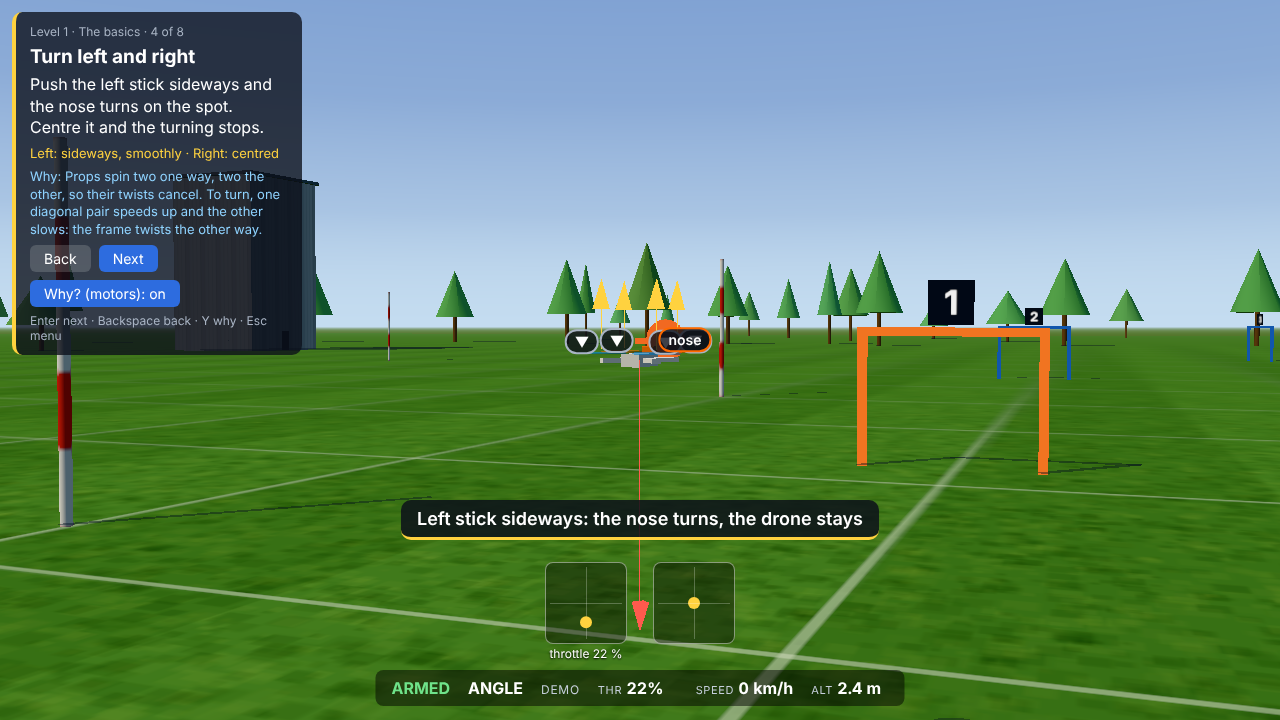
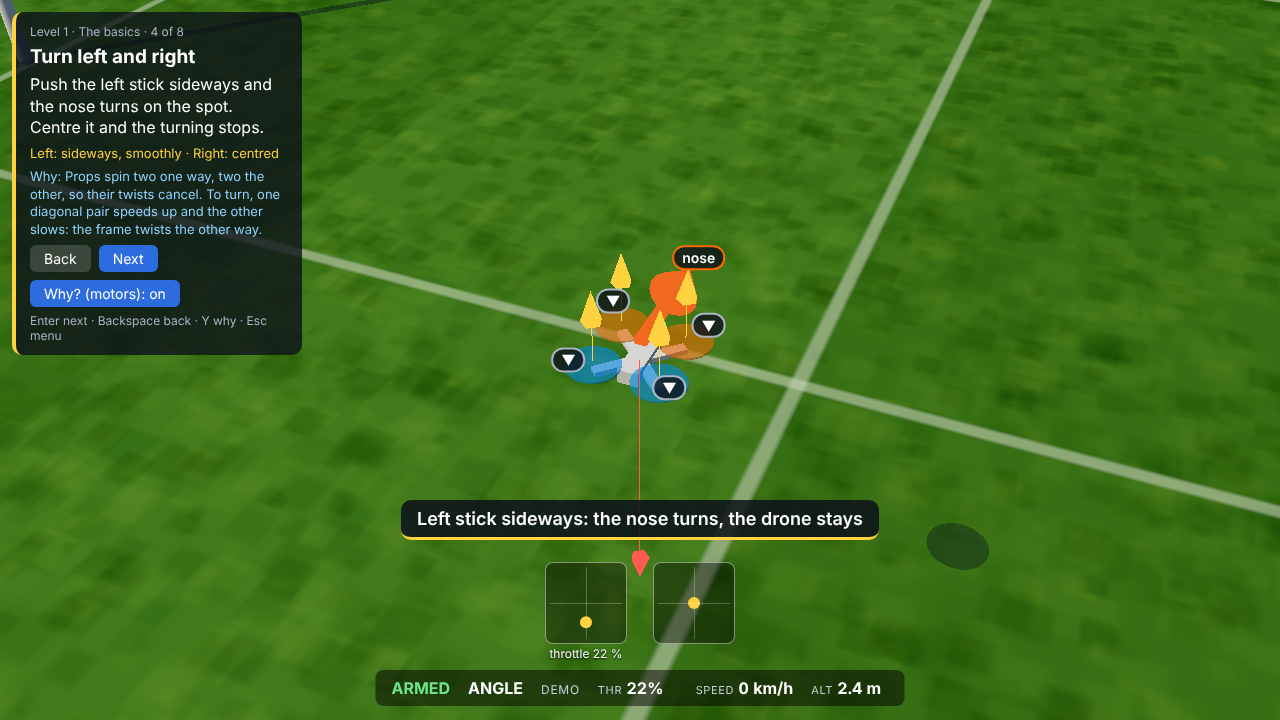
M10e: unit tests, old checks updated for the level decks, README and docs

diff --git a/src/demos.js b/src/demos.js
@@ -131,7 +131,7 @@ export const DEMOS = {
     fly: (t, s, h) => ({ ...h.hold(s, 0, s.pos[1], -7), throttle: between(t, 1, 2.5) ? h.hover + 0.1 : t < 1 ? h.alt(s, 1.5) : h.alt(s, s.pos[1]) }) },
   'basic-down': { start: [0, 4.5, -7], cam: [2.6, 2.6, -1.5], loop: 7, captions: ['Just under hover: it sinks gently'],
     fly: (t, s, h) => ({ ...h.hold(s, 0, s.pos[1], -7), throttle: between(t, 1, 4.5) && s.pos[1] > 1.2 ? h.hover - 0.04 : t < 1 ? h.alt(s, 4.5) : h.alt(s, Math.max(1.2, s.pos[1])) }) },
-  'basic-yaw': { start: SPOT, cam: [2.2, 2.6, -1.5], loop: 7.5, nose: true, scale: 2, captions: ['Left stick sideways: the nose turns, the drone stays'],
+  'basic-yaw': { start: SPOT, cam: [1.5, 5.5, -3.5], loop: 7.5, nose: true, scale: 2, captions: ['Left stick sideways: the nose turns, the drone stays'],
     fly: (t, s, h) => ({ ...h.hold(s, ...SPOT), yaw: between(t, 1, 3) ? -0.45 * Math.min(1, (t - 1) / 0.6, (3 - t) / 0.6) : between(t, 4, 6) ? 0.45 * Math.min(1, (t - 4) / 0.6, (6 - t) / 0.6) : 0 }) },
   'basic-back': { start: [12, 2.5, -9, 90], cam: PILOT, loop: 6, captions: ['Stick back: it tilts back and moves backward'],
     fly: (t, s, h) => level(s, h, 2.5, { pitch: between(t, 1, 3) ? -0.35 : t >= 3 && s.vel[0] < -0.4 ? 0.4 : 0 }) },
@@ -139,11 +139,11 @@ export const DEMOS = {
     fly: (t, s, h) => level(s, h, 2.5, { roll: between(t, 1, 3) ? 0.35 : t >= 3 && s.vel[0] > 0.4 ? -0.4 : 0 }) },
   'thrust-ramp': { start: [0, 1.2, -7], cam: [2.6, 2.6, -1.5], loop: 6, arrows: true, captions: ['Throttle up slowly: the push grows faster than the stick'],
     fly: (t, s, h) => ({ ...h.hold(s, 0, s.pos[1], -7), throttle: t < 1 ? h.alt(s, 1.2) : between(t, 1, 3) ? h.hover + 0.06 * (t - 1) : h.alt(s, s.pos[1]) }) },
-  'descent': { runs: 2, start: (run) => (run ? [-10, 7, -8, 90] : [0, 7, -8]), cam: PILOT, loop: 6, arrows: true,
+  'descent': { runs: 2, start: (run) => (run ? [-12, 7, -8, 90] : [0, 7, -8]), cam: PILOT, loop: 7.5, arrows: true,
     captions: ['Straight down, gently: just under hover', 'Coming down while moving forward: the drone leaves its own air behind'],
     fly: (t, s, h) => {
       const sink = s.pos[1] > 1.5 && t > 1 ? h.hover - 0.03 : h.alt(s, Math.max(1.5, s.pos[1]));
-      return h.run ? { ...level(s, h, 0, { pitch: t > 1 && s.pos[1] > 1.5 ? 0.25 : s.vel[0] > 0.4 ? -0.4 : 0 }), throttle: sink + (t > 1 && s.pos[1] > 1.5 ? 0.02 : 0) } : { ...h.hold(s, 0, s.pos[1], -8), throttle: sink };
+      return h.run ? { ...level(s, h, 0, { pitch: t > 1 && s.pos[1] > 1.5 ? 0.2 : s.vel[0] > 0.4 ? -0.4 : 0 }), throttle: sink } : { ...h.hold(s, 0, s.pos[1], -8), throttle: sink };
     } },
   // Stick patterns (src/patterns.js, M10d): run 0 does the whole pattern, run 1 forgets one part. captions[run] says which.
   'pat-hover': { runs: 2, start: SPOT, cam: [2.2, 2.6, -1.5], loop: 6, captions: ['Throttle at hover: it stays', 'Forgot: throttle a little low, so it sinks'],

diff --git a/index.html b/index.html
@@ -47,7 +47,7 @@
   <div class="menu-card">
     <h1 class="menu-title"></h1>
     <section data-screen="main" data-title="FPV sim">
-      <button type="button" class="big" data-go="learn" data-first><b>Learn</b><small id="main-learn">Eight lessons, from first take-off to real-drone ready</small></button>
+      <button type="button" class="big" data-go="learn" data-first><b>Learn</b><small id="main-learn">Four levels and eight lessons, from first take-off to motor thrust</small></button>
       <button type="button" class="big" data-act="gates"><b>Gates</b><small id="main-gates">Seven gates against the clock</small></button>
       <button type="button" class="big" data-act="free"><b>Free fly</b><small>The open field, nothing on screen you did not ask for</small></button>
       <button type="button" class="big" data-go="theory"><b>Theory</b><small>Every card, to revise any time</small></button>

diff --git a/src/style.css b/src/style.css
@@ -71,6 +71,9 @@ button.lesson.on { background: #2d6cdf; }
 button.lesson:disabled { opacity: .45; cursor: default; background: rgba(255,255,255,.08); }
 button.lesson small { font-size: 12px; color: #dfe5ee; letter-spacing: .03em; }
 button.lesson.done b::after { content: ' ✓'; color: #6fe38a; }
+button.deck { display: grid; gap: 1px; text-align: left; background: rgba(80,160,255,.18); padding: 5px 9px; border-left: 3px solid #8fd3ff; }
+button.deck:hover { background: rgba(80,160,255,.3); }
+button.deck small { font-size: 12px; color: #dfe5ee; }
 #badge { margin-top: 8px; padding: 6px 10px; border-radius: 6px; background: #1f7a3a; font-weight: 700; text-align: center; }
 #btn-forget[hidden] { display: none; }
 #menu section > .tune-row { display: flex; gap: 8px; align-items: baseline; margin-top: 10px; }

diff --git a/docs/theory.md b/docs/theory.md
@@ -54,6 +54,22 @@ The rates card also draws the rates curve: rotation speed against stick position
 
 The Banked turn and Orbit demos draw the ground track as dots (green for the whole pattern, orange for the forgotten part) and a white nose line every 0.4 s, so a still picture shows the nose turning while the track runs straight. The stick overlay under the demo shows the demo's real sticks and the throttle value.
 
+## Curriculum (M10e)
+
+Learn is ordered in four levels (`src/curriculum.js`): **1 The basics** (hover, up, down, turn, forward, backward, sideways, stop; lessons 1-2), **2 Combinations** (forward + throttle, banked turn, orbit, nose toward you, wind; lessons 3-6), **3 The physics** (thrust and throttle, tilt, prop torque and the yaw jump, momentum and drag, coming down), **4 Acro** (the four acro cards; lessons 7-8). Each level has a deck of cards; each card has the pattern (sticks) and a **Why? (motors)** line. With Why? on (button, Y, or square on a PlayStation pad) the demo also draws the force arrows and tags the motors that are faster or slower than the average (more than 10 % off) from the sim's own thrusts; because those differences last only about 0.1 s in the physics, the demo runs at a quarter of its speed while they last and the tags stay up 1.2 s.
+
+| Card claim | Source / measured |
+|---|---|
+| Hover takes about a ninth of full push; that sits near 15 % of the stick (21 % on the Trainer) | Thrust-to-weight 9 (docs/physics.md, PLAN range, uncited) and the thrust curve thrust ∝ command^1.35 (docs/feel.md note 2, two 2207 6S bench tables); `hoverStick()` gives 15.0 % (freestyle) and 21.4 % (Trainer) |
+| Tilted 30°, half the push points sideways; upward part = push × cos(tilt) | Geometry: sin 30° = 0.5, cos 30° = 0.87, cos 60° = 0.5 |
+| A prop's twist is its push times about 1.2 cm, against the 11 cm arm | `yawTorquePerThrust` 0.0122 m (derived from [7] in docs/physics.md) and `armLength` 0.11 m (uncited) |
+| Hard yaw makes the drone jump up, on real Betaflight quads too | docs/physics.md "Yaw jump" (Betaflight 4.2 tuning notes) |
+| Drag sets the top speed, about 150 km/h | docs/feel.md: 145 km/h measured in angle mode, 148 km/h level |
+| Coming down: up to 20 % less mean push when sinking into its own wash; the sim does not model it | Veismann et al. 2021, NASA Ames, https://rotorcraft.arc.nasa.gov/Publications/files/77-2021-0193_Veismann.pdf (abstract: "mean thrust losses of up to 20% compared to hover conditions"); a 1.68 kg variable-pitch quad in a vertical wind tunnel, so for a 5-inch it is an indication, not a measurement. Not modelled: see PROGRESS.md "For M10e" for a possible model |
+| Rates 70°/s near centre, 670°/s at full stick | Betaflight defaults (docs/physics.md [1][2]) |
+
+Demos measured (Trainer and 5-inch, `test/unit/demos.test.mjs`): Up climbs more than 2 m and then holds within 0.1 m; Down sinks more than 2 m at under 3 m/s; Turn turns the nose more than 60° while the drone stays within 0.3 m; Backward and Sideways move more than 4 m with the nose unchanged (within 3°); Coming down sinks gently (under 3.5 m/s) straight down, then a second time while moving forward.
+
 ## Helpers (M10)
 
 **Force arrows while flying.** The same arrows as in the demos (`src/arrows.js`, same scales), switched on with F or in Settings, drawn in line-of-sight and chase view. In FPV the camera is on the quad, so they are not drawn. Checked in Chrome: hovering, the four thrusts add up to the weight (6.67 N against 6.67 N).

diff --git a/PROGRESS.md b/PROGRESS.md
@@ -210,3 +210,4 @@ Live link: https://mickethegeek.github.io/fpv-sim/ (not checkable from the cloud
 - 2026-11-17 11:32 Zurich · M10d ticked: yaw jump kept (real, Betaflight yaw pidsum limit added), 8 stick patterns flown whole and with one part forgotten, Stick patterns page, live throttle under the left stick, pattern reminder in Try, ground track + nose bars in the Banked turn and Orbit demos; 79 unit tests; full browser run passes (164 checks, 0 failures); proof/M10d/97 to 102 · next: M10e curriculum
 - 2026-11-17 11:34 Zurich · M10e started: src/curriculum.js (4 levels: basics 8 cards, combinations 5, physics 5 incl. coming down taught honestly as not modelled, acro 4; every card has a pattern and a 'Why? (motors)' line), 7 new demos (up, down, turn, backward, sideways, thrust ramp, descent) flown on both quads; not on the page yet · next: Learn screen by levels, Why? toggle with live motor tags
 - 2026-11-17 11:37 Zurich · M10e: Learn screen in 4 levels (each a deck of cards, then its lessons); Why? (motors) on every card (button, Y, or square): the card's motors line, force arrows, faster / slower tags on the motors (held 1.2 s, demo at quarter speed while the motors differ); level cards also on the Theory page; browser block M10e (8 checks) passes · next: look at screenshots, fix old checks that count Learn buttons, docs, full run
+- 2026-11-17 11:42 Zurich · M10e: unit tests for the curriculum and the new demos (83 pass); old M6 / M8 checks updated for the deck buttons (M8 block passes); README and docs/theory.md 'Curriculum' (every card claim with its source or measurement; coming down marked as not modelled); screenshots 103 to 105 looked at · next: full browser run, tick M10e

diff --git a/README.md b/README.md
@@ -42,6 +42,7 @@ Other gamepads with the standard layout work like the PlayStation one (RB arm, L
 The page opens on a menu: **Learn**, **Gates**, **Free fly**, **Theory**, **Stick patterns**, **Settings**. Nothing is locked: open any chapter, skip any part from the pause menu (Options or Esc), or go straight to the gates.
 
 - **Learn.** Eight chapters. Each has up to four parts, all optional: **Learn** (short cards, each shown live in the sim with the real forces drawn as arrows), **Watch** (a test pilot flies the lesson, sticks on screen), **Check** (two or three quick questions) and **Try** (you fly it). ✕ or Enter goes to the next card, ◯ or Backspace back.
+- **Levels.** Learn is ordered in four levels: the basics (one move each: up, down, turn, forward, back, sideways, stop, hover), combinations, the physics (thrust, tilt, prop torque, momentum, why coming down is hard) and acro. Each level starts with a short deck of cards, then its lessons. On any card, **Why? (motors)** (the button, Y, or □ on a PlayStation controller) shows which motors speed up or slow down and the forces that result.
 - **Theory** lists every card, to look one up again at any time.
 - **Try.** The eight lessons take you from the first take-off to a "real-drone ready" badge: hover, hover facing all four ways, turns and a figure 8, fly out and come back, the same in wind, emergencies, a first taste of acro, and a final check. A lesson is passed after 3 good runs in a row. Lessons 1 to 4 are flown twice: through the camera (FPV) and standing on the ground watching the drone (line of sight).
 - **Gates:** a 7-gate course with a lap timer. The orange gate is the next one. Your best lap is saved.
